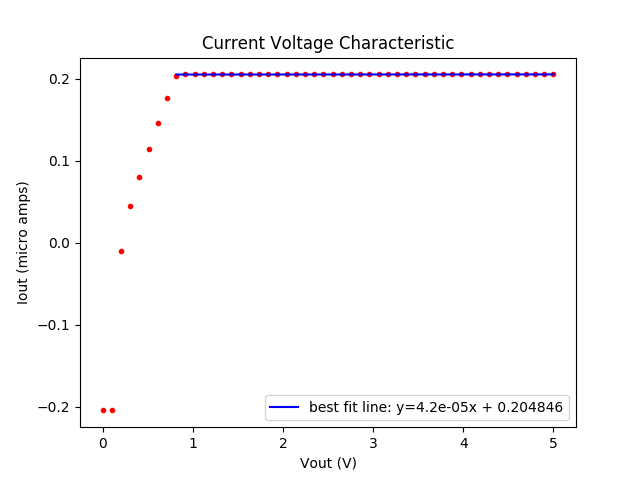
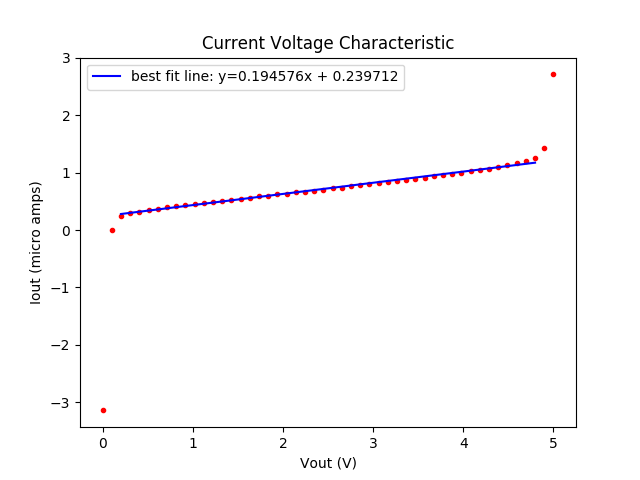
done with lab 9 stuffs

diff --git a/lab 9/exp2/exp2_plot3.py b/lab 9/exp2/exp2_plot3.py
@@ -17,7 +17,7 @@ linearvdm = []
 for i, x in enumerate(Iout):
     Iout[i] = -1*float(Iout[i])*1e6
     Vdm[i] = float(Vdm[i])
-    if Vdm[i] > .007 and Vdm[i] < .017:
+    if Vdm[i] > -.11 and Vdm[i] < .12:
         lineariout.append(Iout[i])
         linearvdm.append(Vdm[i])
 

diff --git a/lab 9/exp2/exp2_plot2.py b/lab 9/exp2/exp2_plot2.py
@@ -16,7 +16,7 @@ linearvout = []
 for i, x in enumerate(Iout):
     Iout[i] = float(Iout[i])*1e6
     Vout[i] = float(Vout[i])
-    if Vout[i] > .78:
+    if Vout[i] < 4.8 and Vout[i] > 0.2:
         lineariout.append(Iout[i])
         linearvout.append(Vout[i])
 
